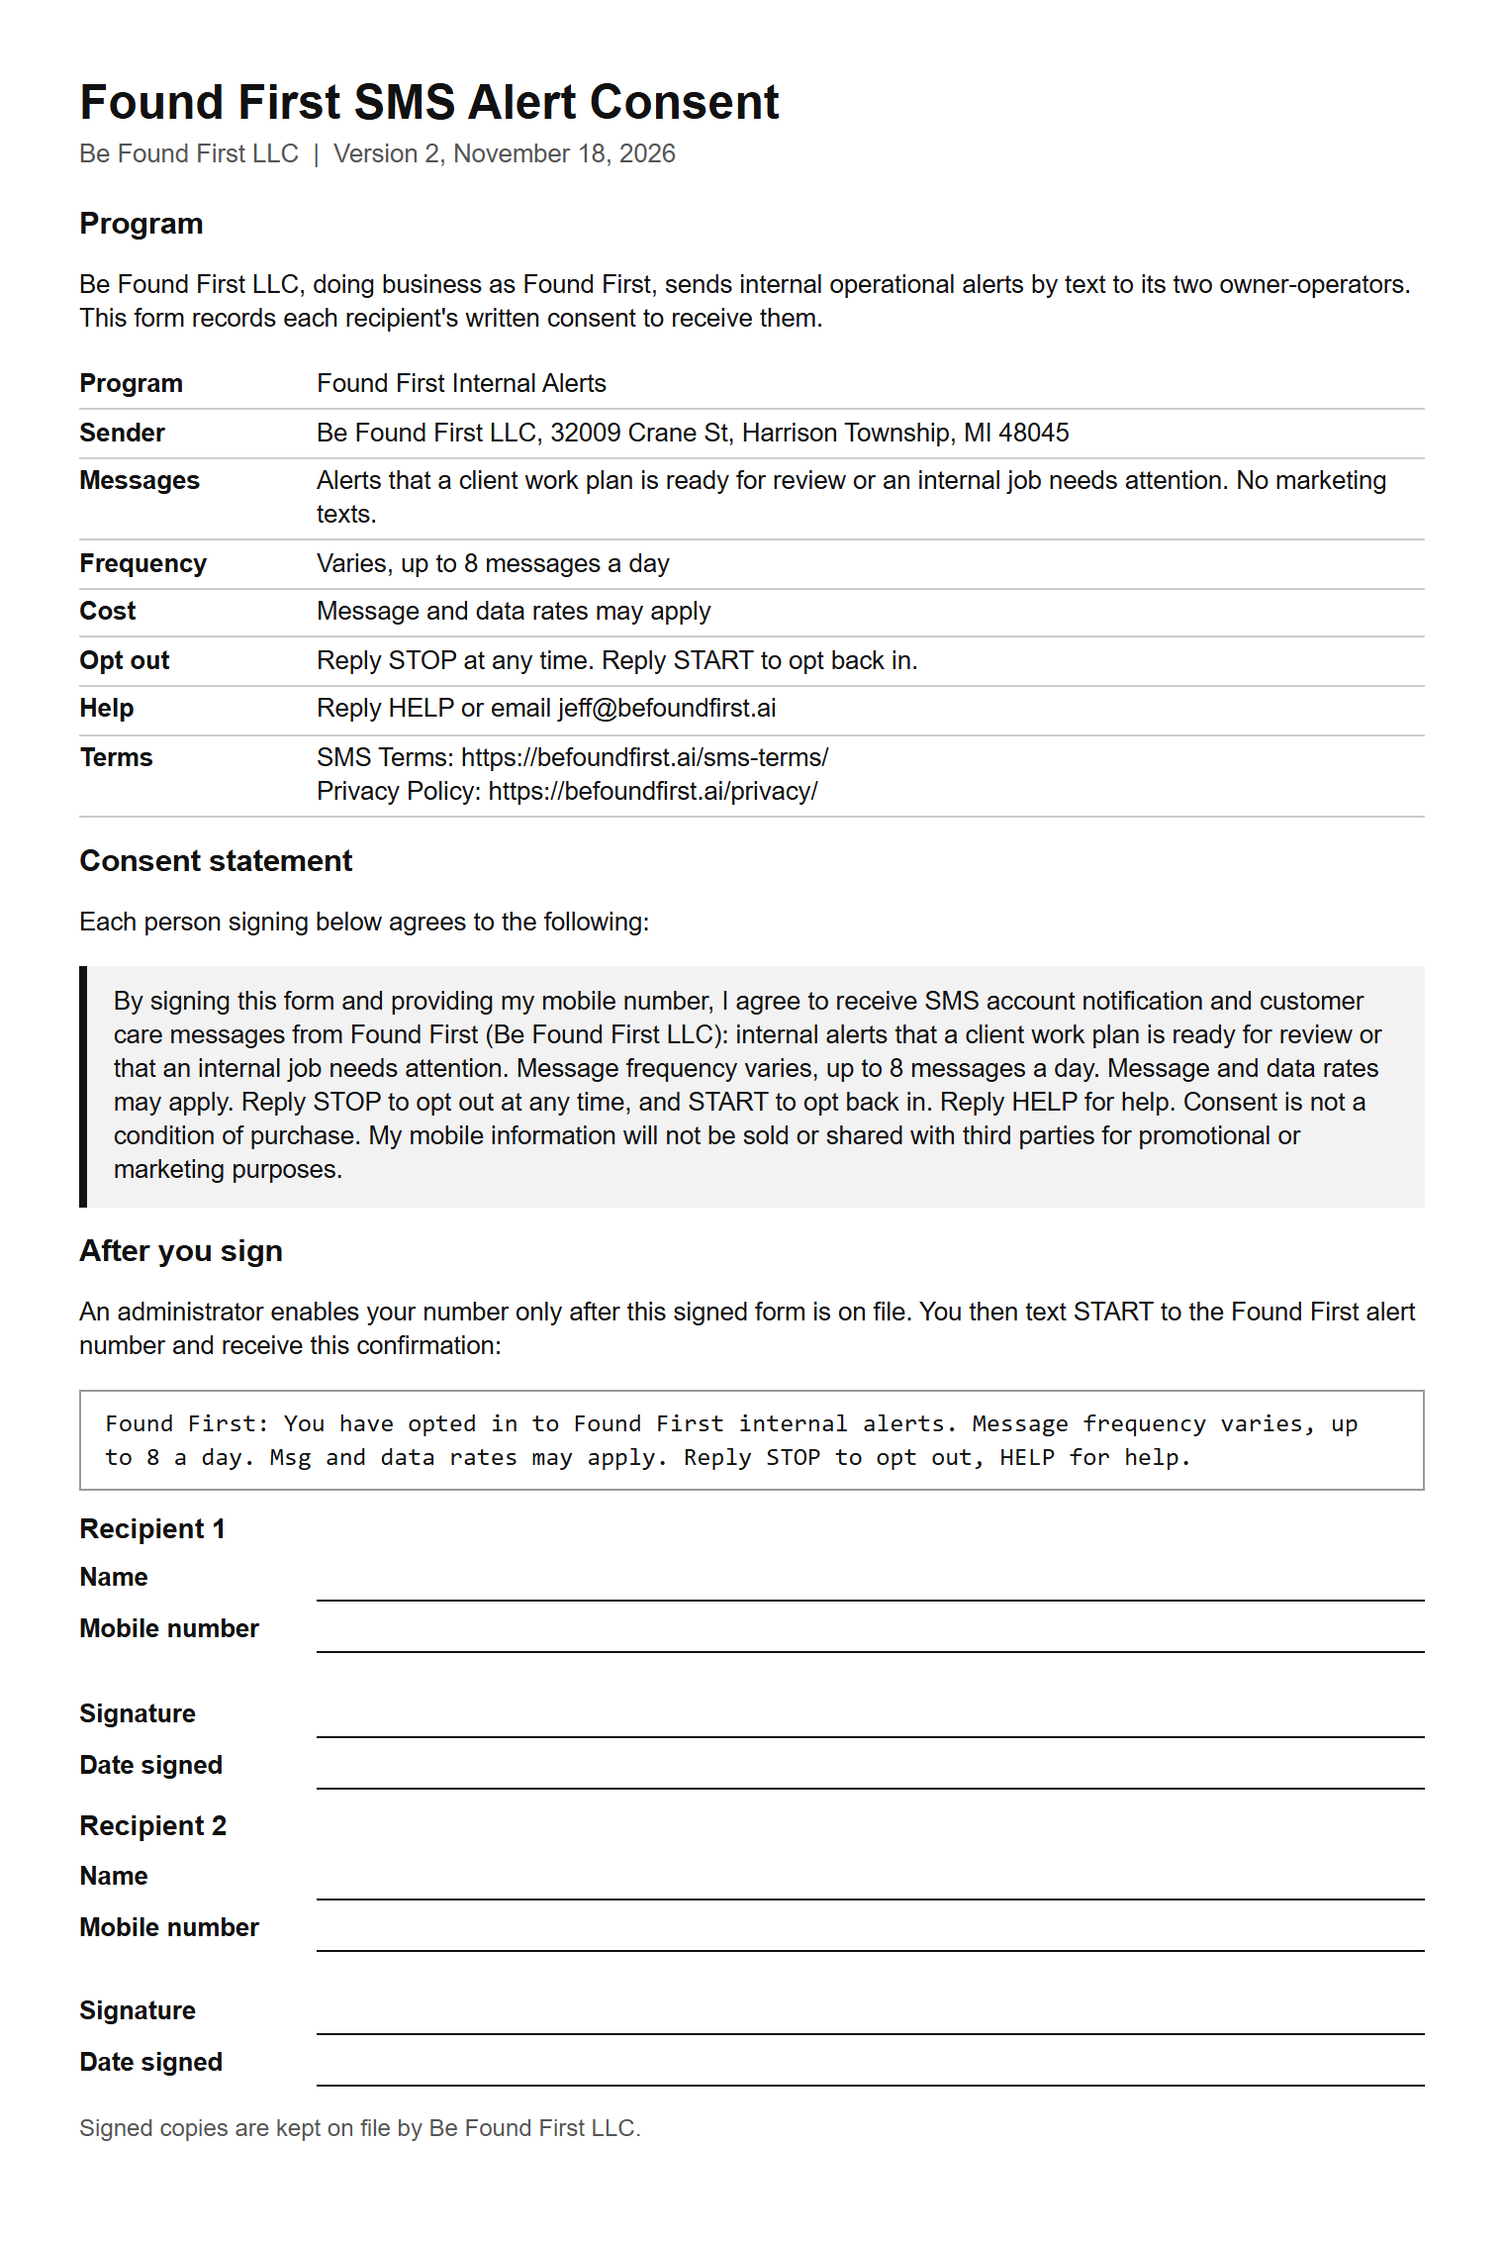
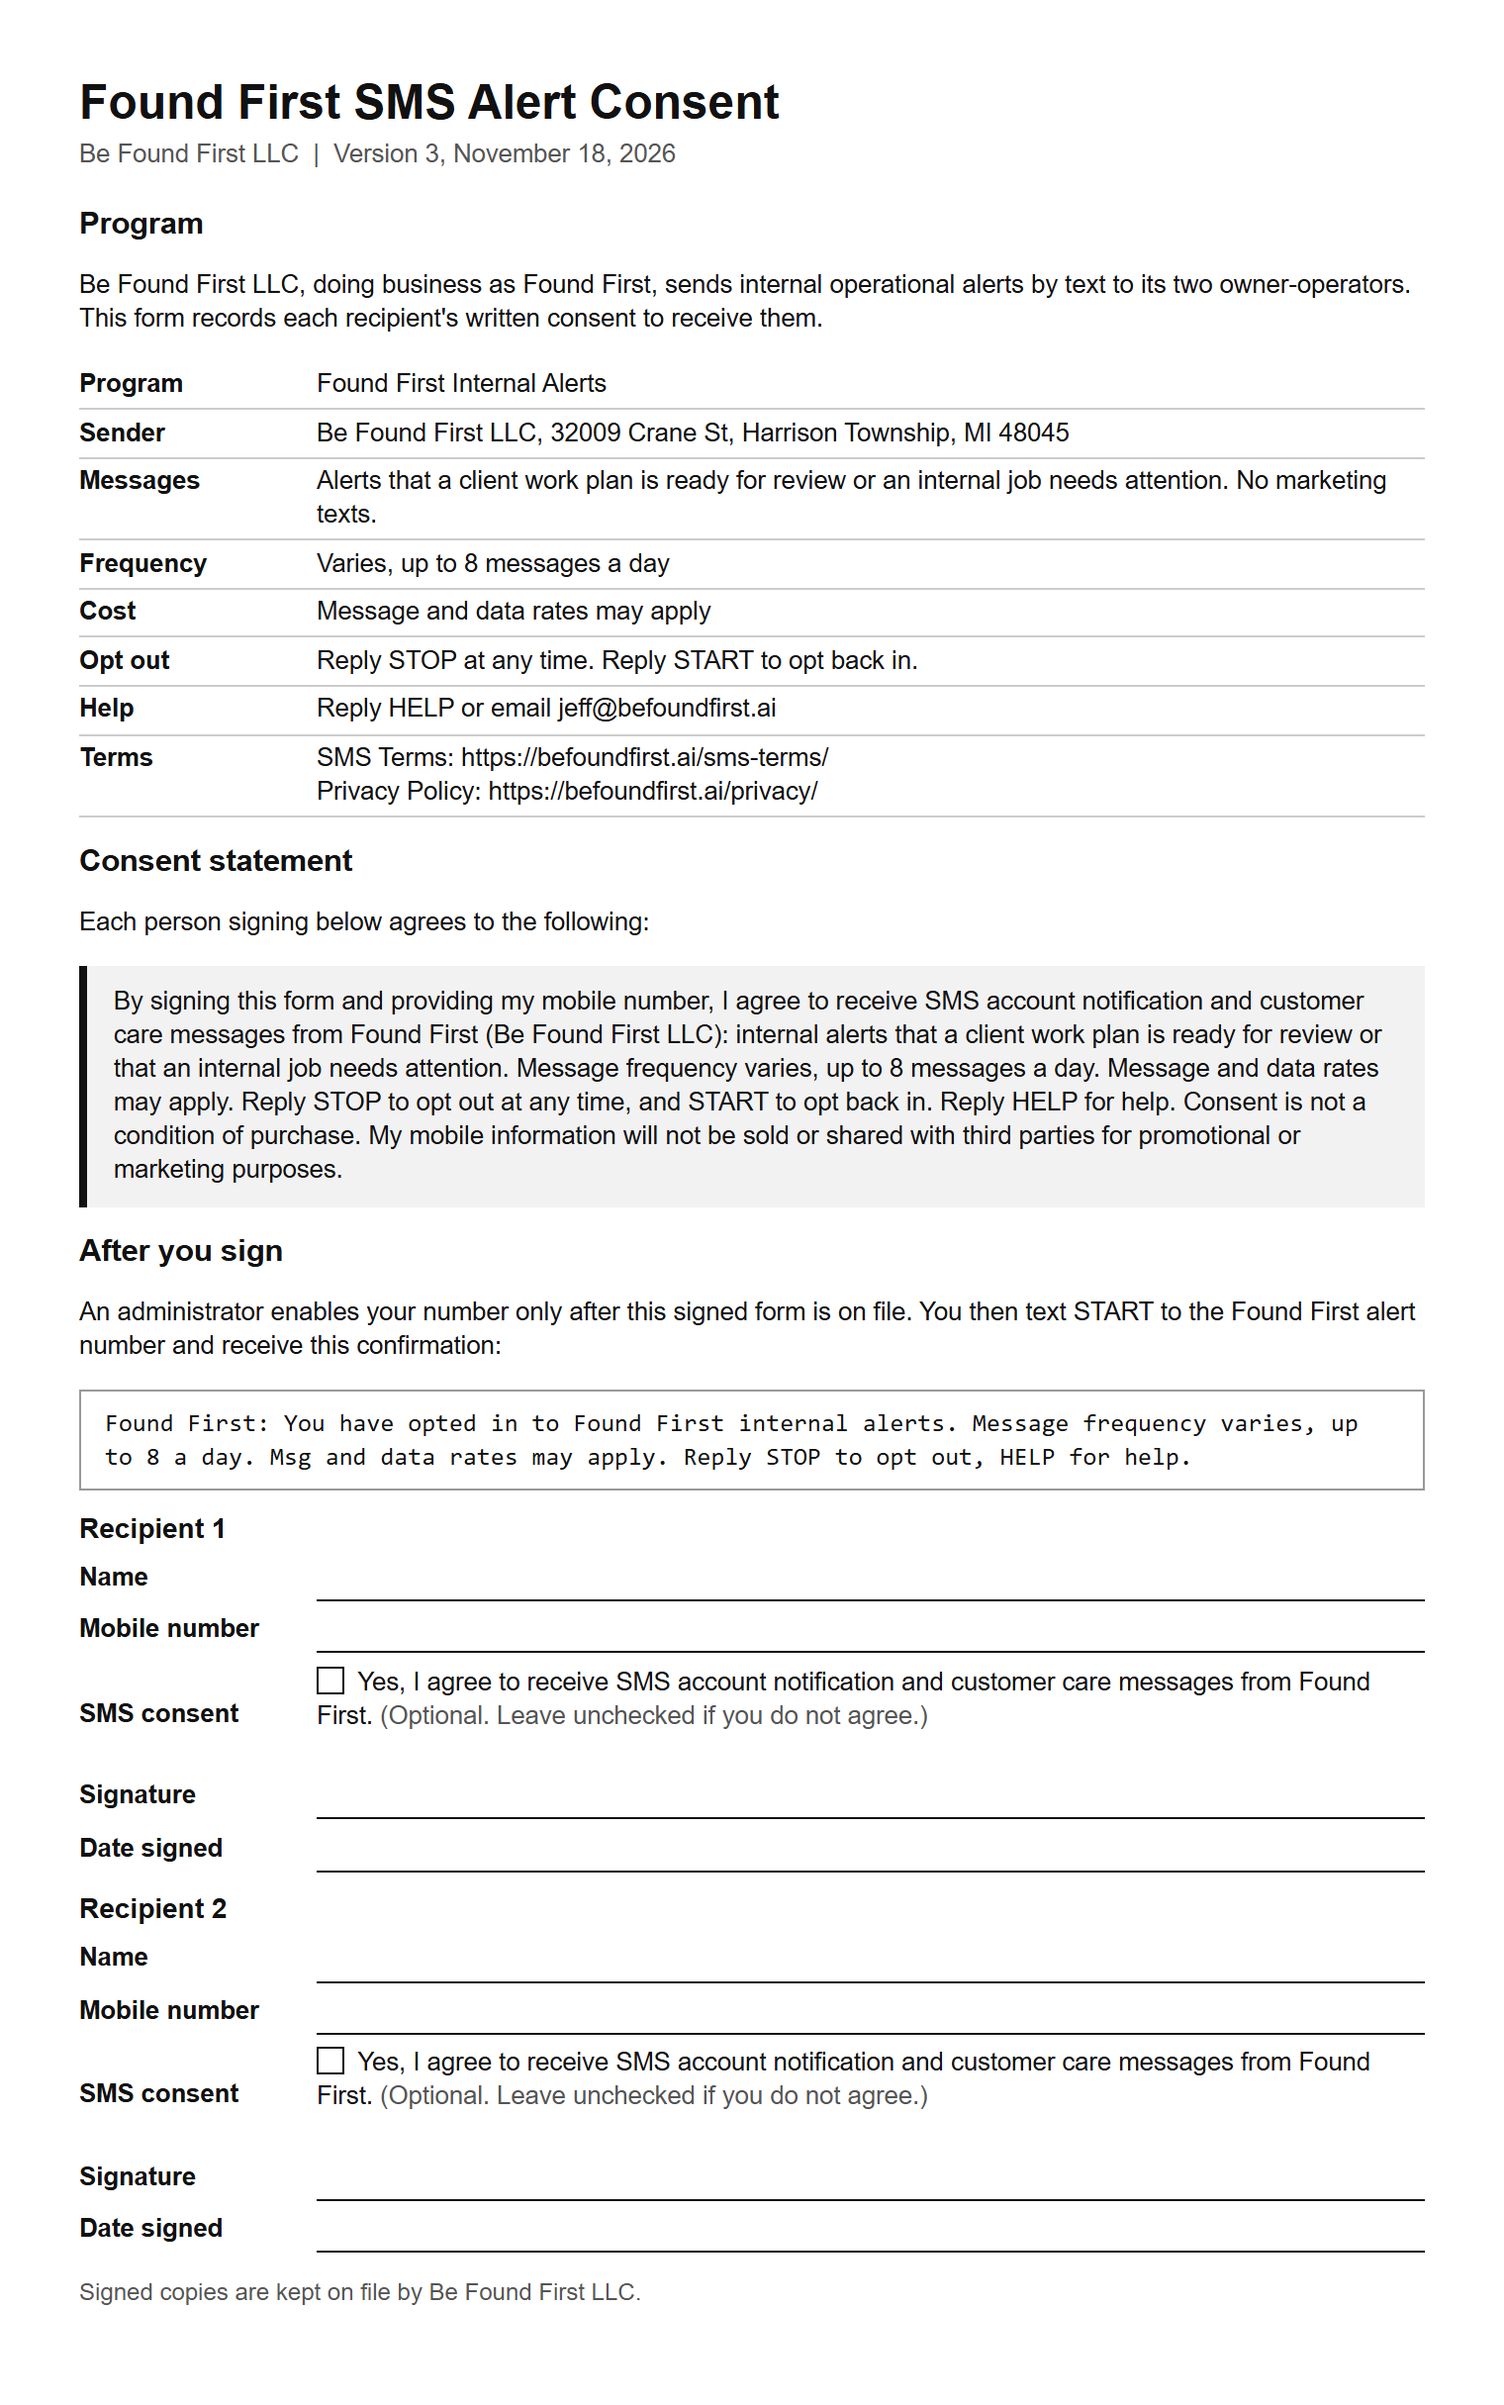
Show the SMS consent checkbox on the consent form page
Telnyx's review asked for a visible SMS opt-in checkbox, unchecked by default
and optional, beside the phone number field and signature line. Version 3 of
the blank form (PNG and PDF) adds it under each mobile number, and the page now
shows the form's fields with the checkbox and the full consent wording beside
it. The preview collects and sends nothing.

Changed region(s): [[0.0309, 0.0309, 0.9276, 0.9585], [0.2164, 0.8348, 0.9276, 0.8966]]

diff --git a/sms-consent/index.html b/sms-consent/index.html
@@ -11,10 +11,19 @@
 <link rel="stylesheet" href="../style.css"><link rel="stylesheet" href="../studio.css">
 <link rel="stylesheet" href="../site.css"><script src="../measurement.js?v=20261116-sales" defer data-ff-measurement="1"></script>
 </head><body class="guide"><a class="skip" href="#main">Skip to content</a>
-<header class="header ff-header"><a class="brand" href="../" aria-label="Found First home"><img src="../assets/micro.svg" alt="" width="42" height="42"><span>FOUND FIRST</span></a><nav aria-label="Main navigation"><a href="../services/">Services</a><a href="../industries/">Who we help</a><a href="../research/">Research</a><a href="../#founders">Founders</a></nav><a class="header-cta" href="../book/">Book a call</a></header><main id="main"><section class="guide-hero"><nav class="breadcrumbs" aria-label="Breadcrumb"><a href="../">Home</a><span>/ <a href="../sms-terms/">SMS Terms</a> / Consent form</span></nav><p class="section-note">[ FOUND FIRST / LEGAL ]</p><h1>SMS Alert Consent Form</h1><p class="guide-lede">The written consent form Found First staff sign before they receive internal alert texts.</p><p class="guide-meta">Version 2, November 18, 2026</p></section>
+<header class="header ff-header"><a class="brand" href="../" aria-label="Found First home"><img src="../assets/micro.svg" alt="" width="42" height="42"><span>FOUND FIRST</span></a><nav aria-label="Main navigation"><a href="../services/">Services</a><a href="../industries/">Who we help</a><a href="../research/">Research</a><a href="../#founders">Founders</a></nav><a class="header-cta" href="../book/">Book a call</a></header><main id="main"><section class="guide-hero"><nav class="breadcrumbs" aria-label="Breadcrumb"><a href="../">Home</a><span>/ <a href="../sms-terms/">SMS Terms</a> / Consent form</span></nav><p class="section-note">[ FOUND FIRST / LEGAL ]</p><h1>SMS Alert Consent Form</h1><p class="guide-lede">The written consent form Found First staff sign before they receive internal alert texts.</p><p class="guide-meta">Version 3, November 18, 2026</p></section>
 <div class="guide-body"><article class="guide-content">
 <section><h2>Who signs it.</h2><p>Found First Internal Alerts go only to Found First's two owner-operators. There is no public sign-up. Each recipient writes their own mobile number on this form and signs it, and an administrator enables the number only after the signed form is on file. Signed copies are kept on file. The copy below is blank.</p></section>
-<section><h2>The form.</h2><p><a href="found-first-sms-alert-consent-form.png"><img src="found-first-sms-alert-consent-form.png" width="760" height="1132" alt="Blank Found First SMS Alert Consent form: the program details, the consent statement, the confirmation text, and lines for each recipient's name, mobile number, signature and date." style="display:block;width:100%;height:auto;border:1px solid #d9d9d9"></a></p><p><a href="found-first-sms-alert-consent-form.pdf">Download the blank form (PDF)</a></p></section>
+<section><h2>The form.</h2><p><a href="found-first-sms-alert-consent-form.png"><img src="found-first-sms-alert-consent-form.png" width="760" height="1215" alt="Blank Found First SMS Alert Consent form: the program details, the consent statement, the confirmation text, and for each recipient lines for name and mobile number, an unchecked optional SMS consent checkbox, and lines for signature and date." style="display:block;width:100%;height:auto;border:1px solid #d9d9d9"></a></p><p><a href="found-first-sms-alert-consent-form.pdf">Download the blank form (PDF)</a></p></section>
+<section><h2>The form's fields.</h2><p>Each recipient completes these fields on the form and signs it. The SMS consent checkbox is unchecked by default and optional. This is a preview of the form; staff complete and sign the form itself through Dropbox Sign, and this page does not collect or send anything.</p>
+<form id="sms-consent-form" action="#" onsubmit="return false" aria-label="Found First SMS Alert Consent form fields" style="margin:20px 0 0;padding:20px;border:1px solid #d9d9d9;border-radius:10px">
+<p style="margin:0 0 16px"><label for="consent-name" style="display:block;font-weight:600;margin:0 0 6px">Name</label><input id="consent-name" name="name" type="text" autocomplete="off" style="display:block;width:100%;max-width:420px;box-sizing:border-box;padding:10px 12px;border:1px solid #bdbdbd;border-radius:6px;font:inherit;background:#fff"></p>
+<p style="margin:0 0 16px"><label for="consent-mobile" style="display:block;font-weight:600;margin:0 0 6px">Mobile number</label><input id="consent-mobile" name="mobile_number" type="tel" inputmode="tel" autocomplete="off" style="display:block;width:100%;max-width:420px;box-sizing:border-box;padding:10px 12px;border:1px solid #bdbdbd;border-radius:6px;font:inherit;background:#fff"></p>
+<p style="margin:0 0 8px;display:flex;gap:10px;align-items:flex-start"><input id="consent-sms" name="sms_consent" type="checkbox" value="yes" style="width:20px;height:20px;margin:2px 0 0;flex:none"><label for="consent-sms">Yes, I agree to receive SMS account notification and customer care messages from Found First. <span style="color:#666">(Optional. Leave unchecked if you do not agree.)</span></label></p>
+<p style="margin:0 0 16px 30px;color:#444;font-size:.95em">By signing this form and providing my mobile number, I agree to receive SMS account notification and customer care messages from Found First (Be Found First LLC): internal alerts that a client work plan is ready for review or that an internal job needs attention. Message frequency varies, up to 8 messages a day. Message and data rates may apply. Reply STOP to opt out at any time, and START to opt back in. Reply HELP for help. Consent is not a condition of purchase. My mobile information will not be sold or shared with third parties for promotional or marketing purposes. See our <a href="../sms-terms/">SMS Terms</a> and <a href="../privacy/">Privacy Policy</a>.</p>
+<p style="margin:0 0 16px"><label for="consent-signature" style="display:block;font-weight:600;margin:0 0 6px">Signature</label><input id="consent-signature" name="signature" type="text" autocomplete="off" style="display:block;width:100%;max-width:420px;box-sizing:border-box;padding:10px 12px;border:1px solid #bdbdbd;border-radius:6px;font:inherit;background:#fff"></p>
+<p style="margin:0"><label for="consent-date" style="display:block;font-weight:600;margin:0 0 6px">Date signed</label><input id="consent-date" name="date_signed" type="text" placeholder="MM/DD/YYYY" autocomplete="off" style="display:block;width:100%;max-width:420px;box-sizing:border-box;padding:10px 12px;border:1px solid #bdbdbd;border-radius:6px;font:inherit;background:#fff"></p>
+</form></section>
 <section><h2>Consent statement.</h2><p>Each person who signs agrees to the following:</p><blockquote><p>By signing this form and providing my mobile number, I agree to receive SMS account notification and customer care messages from Found First (Be Found First LLC): internal alerts that a client work plan is ready for review or that an internal job needs attention. Message frequency varies, up to 8 messages a day. Message and data rates may apply. Reply STOP to opt out at any time, and START to opt back in. Reply HELP for help. Consent is not a condition of purchase. My mobile information will not be sold or shared with third parties for promotional or marketing purposes.</p></blockquote></section>
 <section><h2>Confirmation text.</h2><p>Once the signed form is on file and the number is enabled, the recipient texts START to the Found First alert number and receives this confirmation:</p><blockquote><p>Found First: You have opted in to Found First internal alerts. Message frequency varies, up to 8 a day. Msg and data rates may apply. Reply STOP to opt out, HELP for help.</p></blockquote></section>
 <section><h2>More.</h2><p>See our <a href="../sms-terms/">SMS Terms</a> and <a href="../privacy/">Privacy Policy</a>. For help, reply HELP to any alert or email <a href="mailto:jeff@befoundfirst.ai">jeff@befoundfirst.ai</a>.</p></section>
